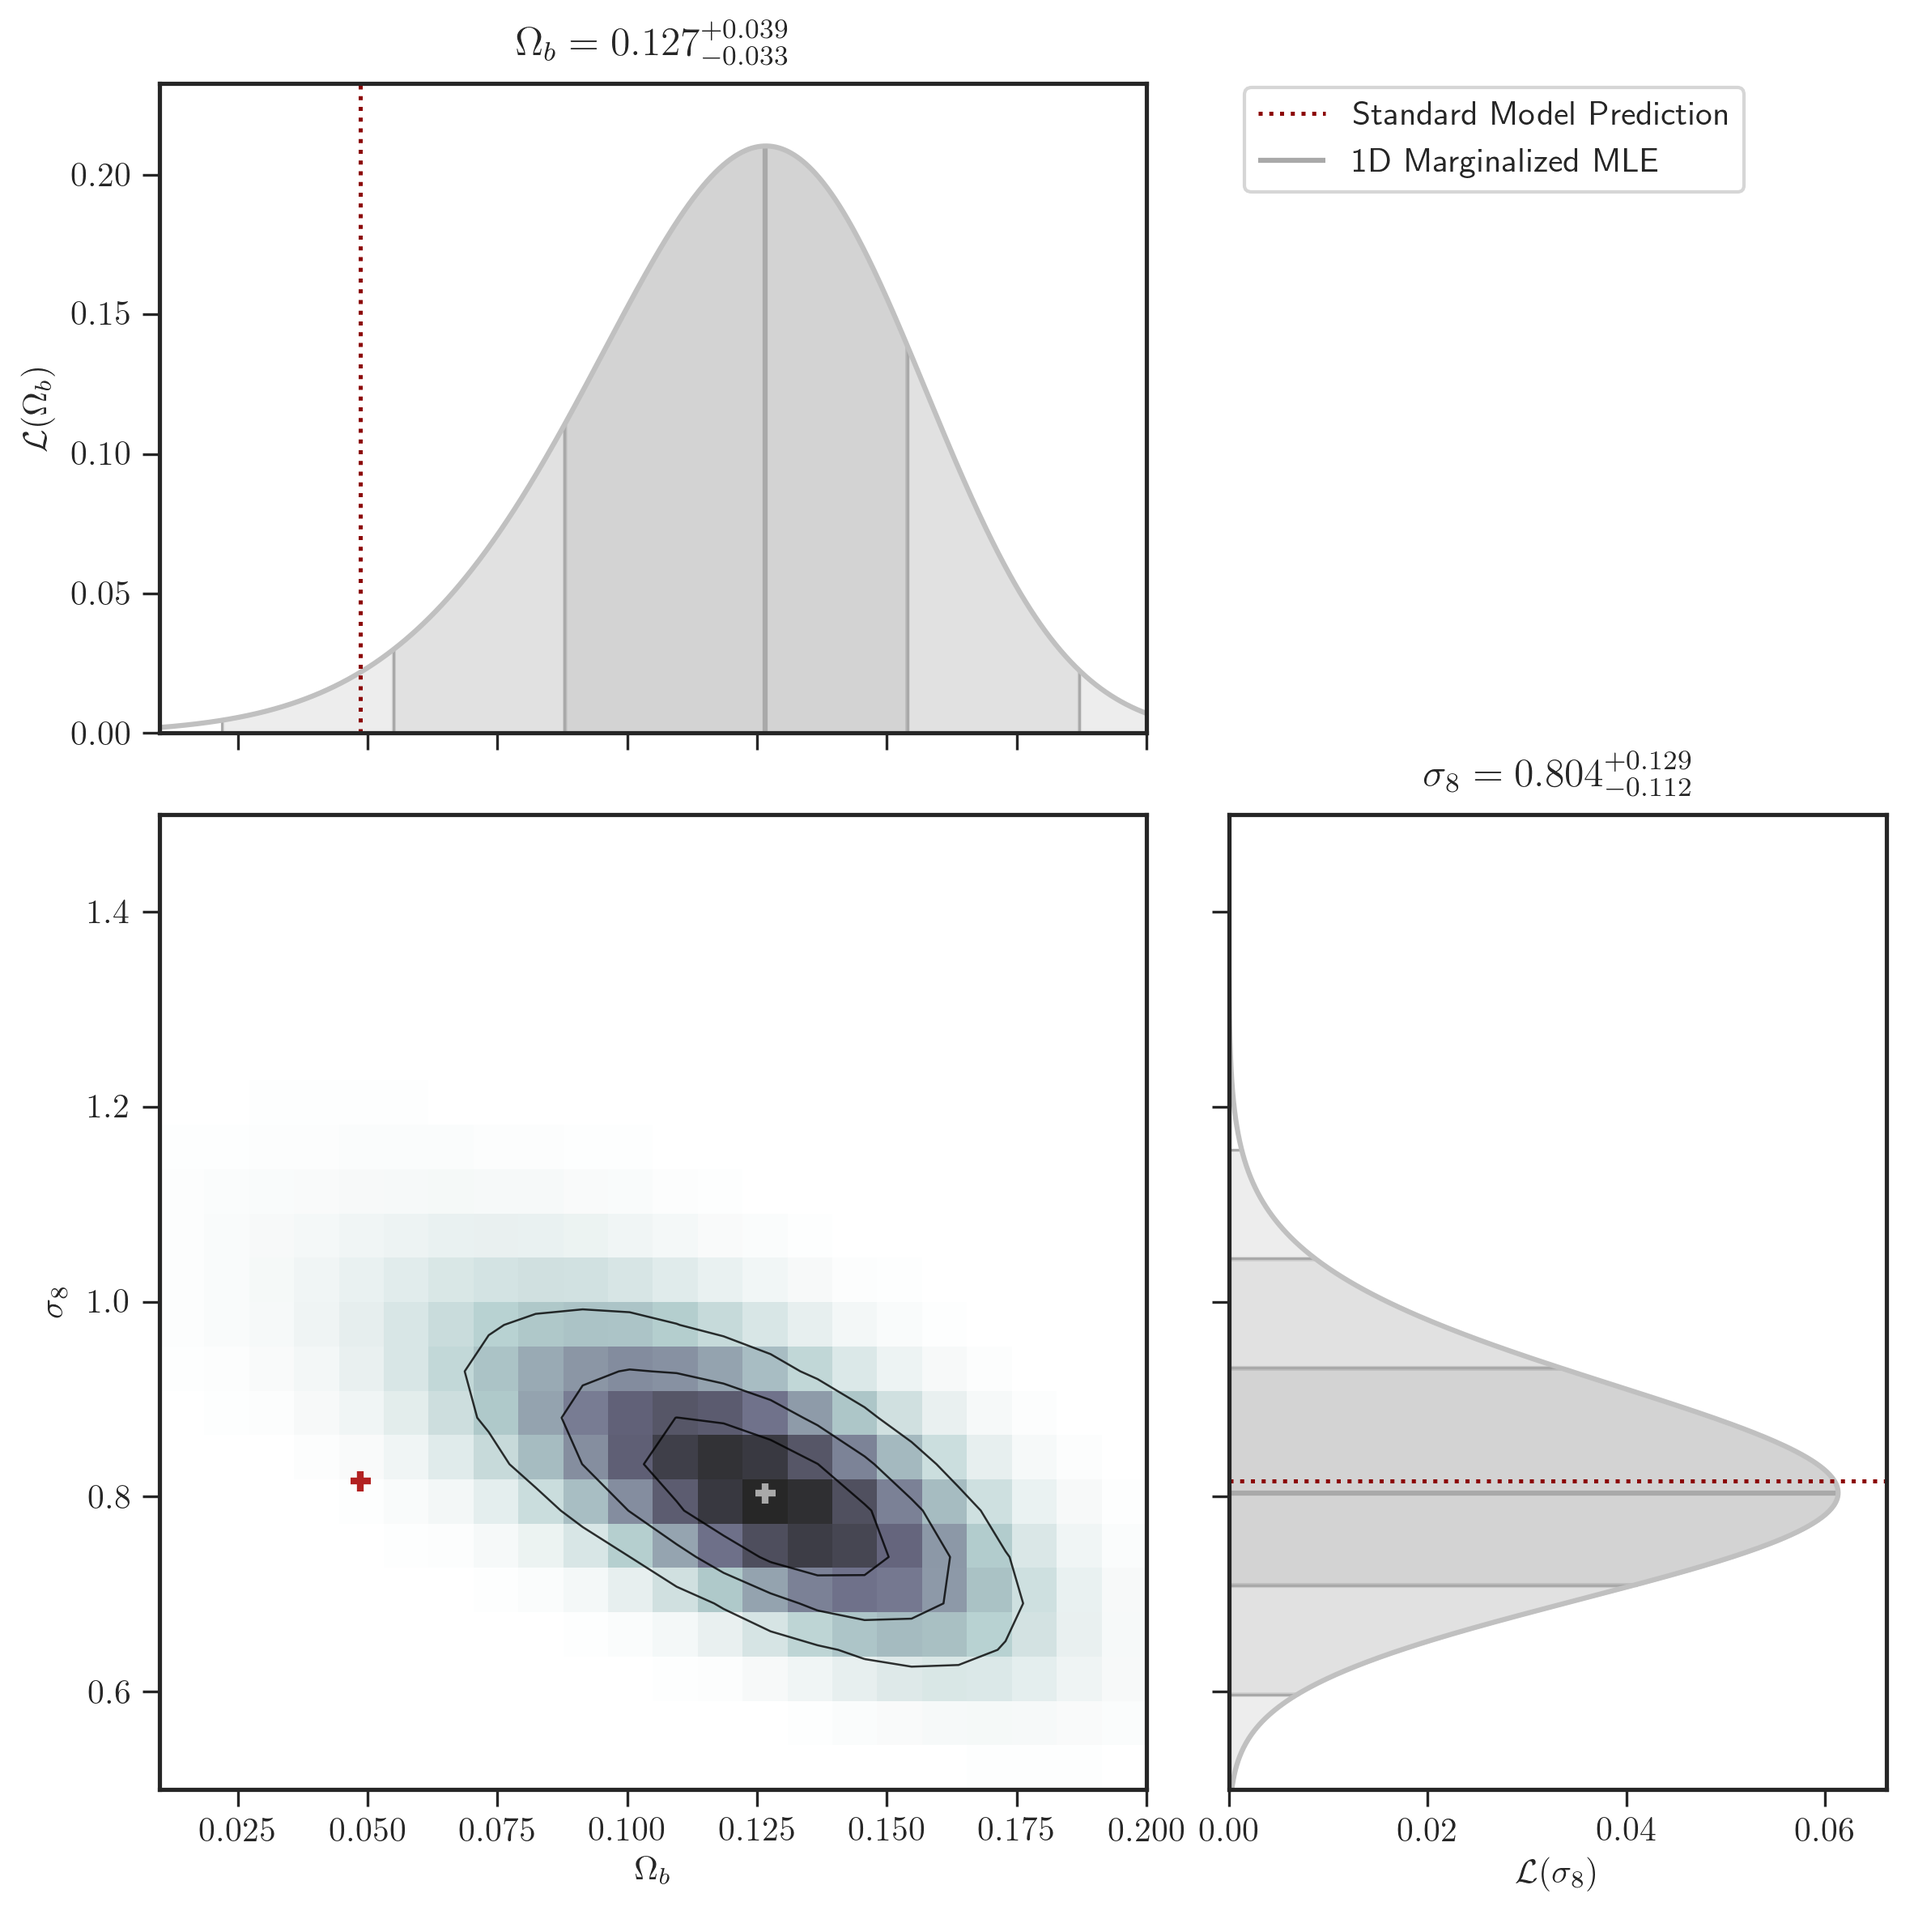
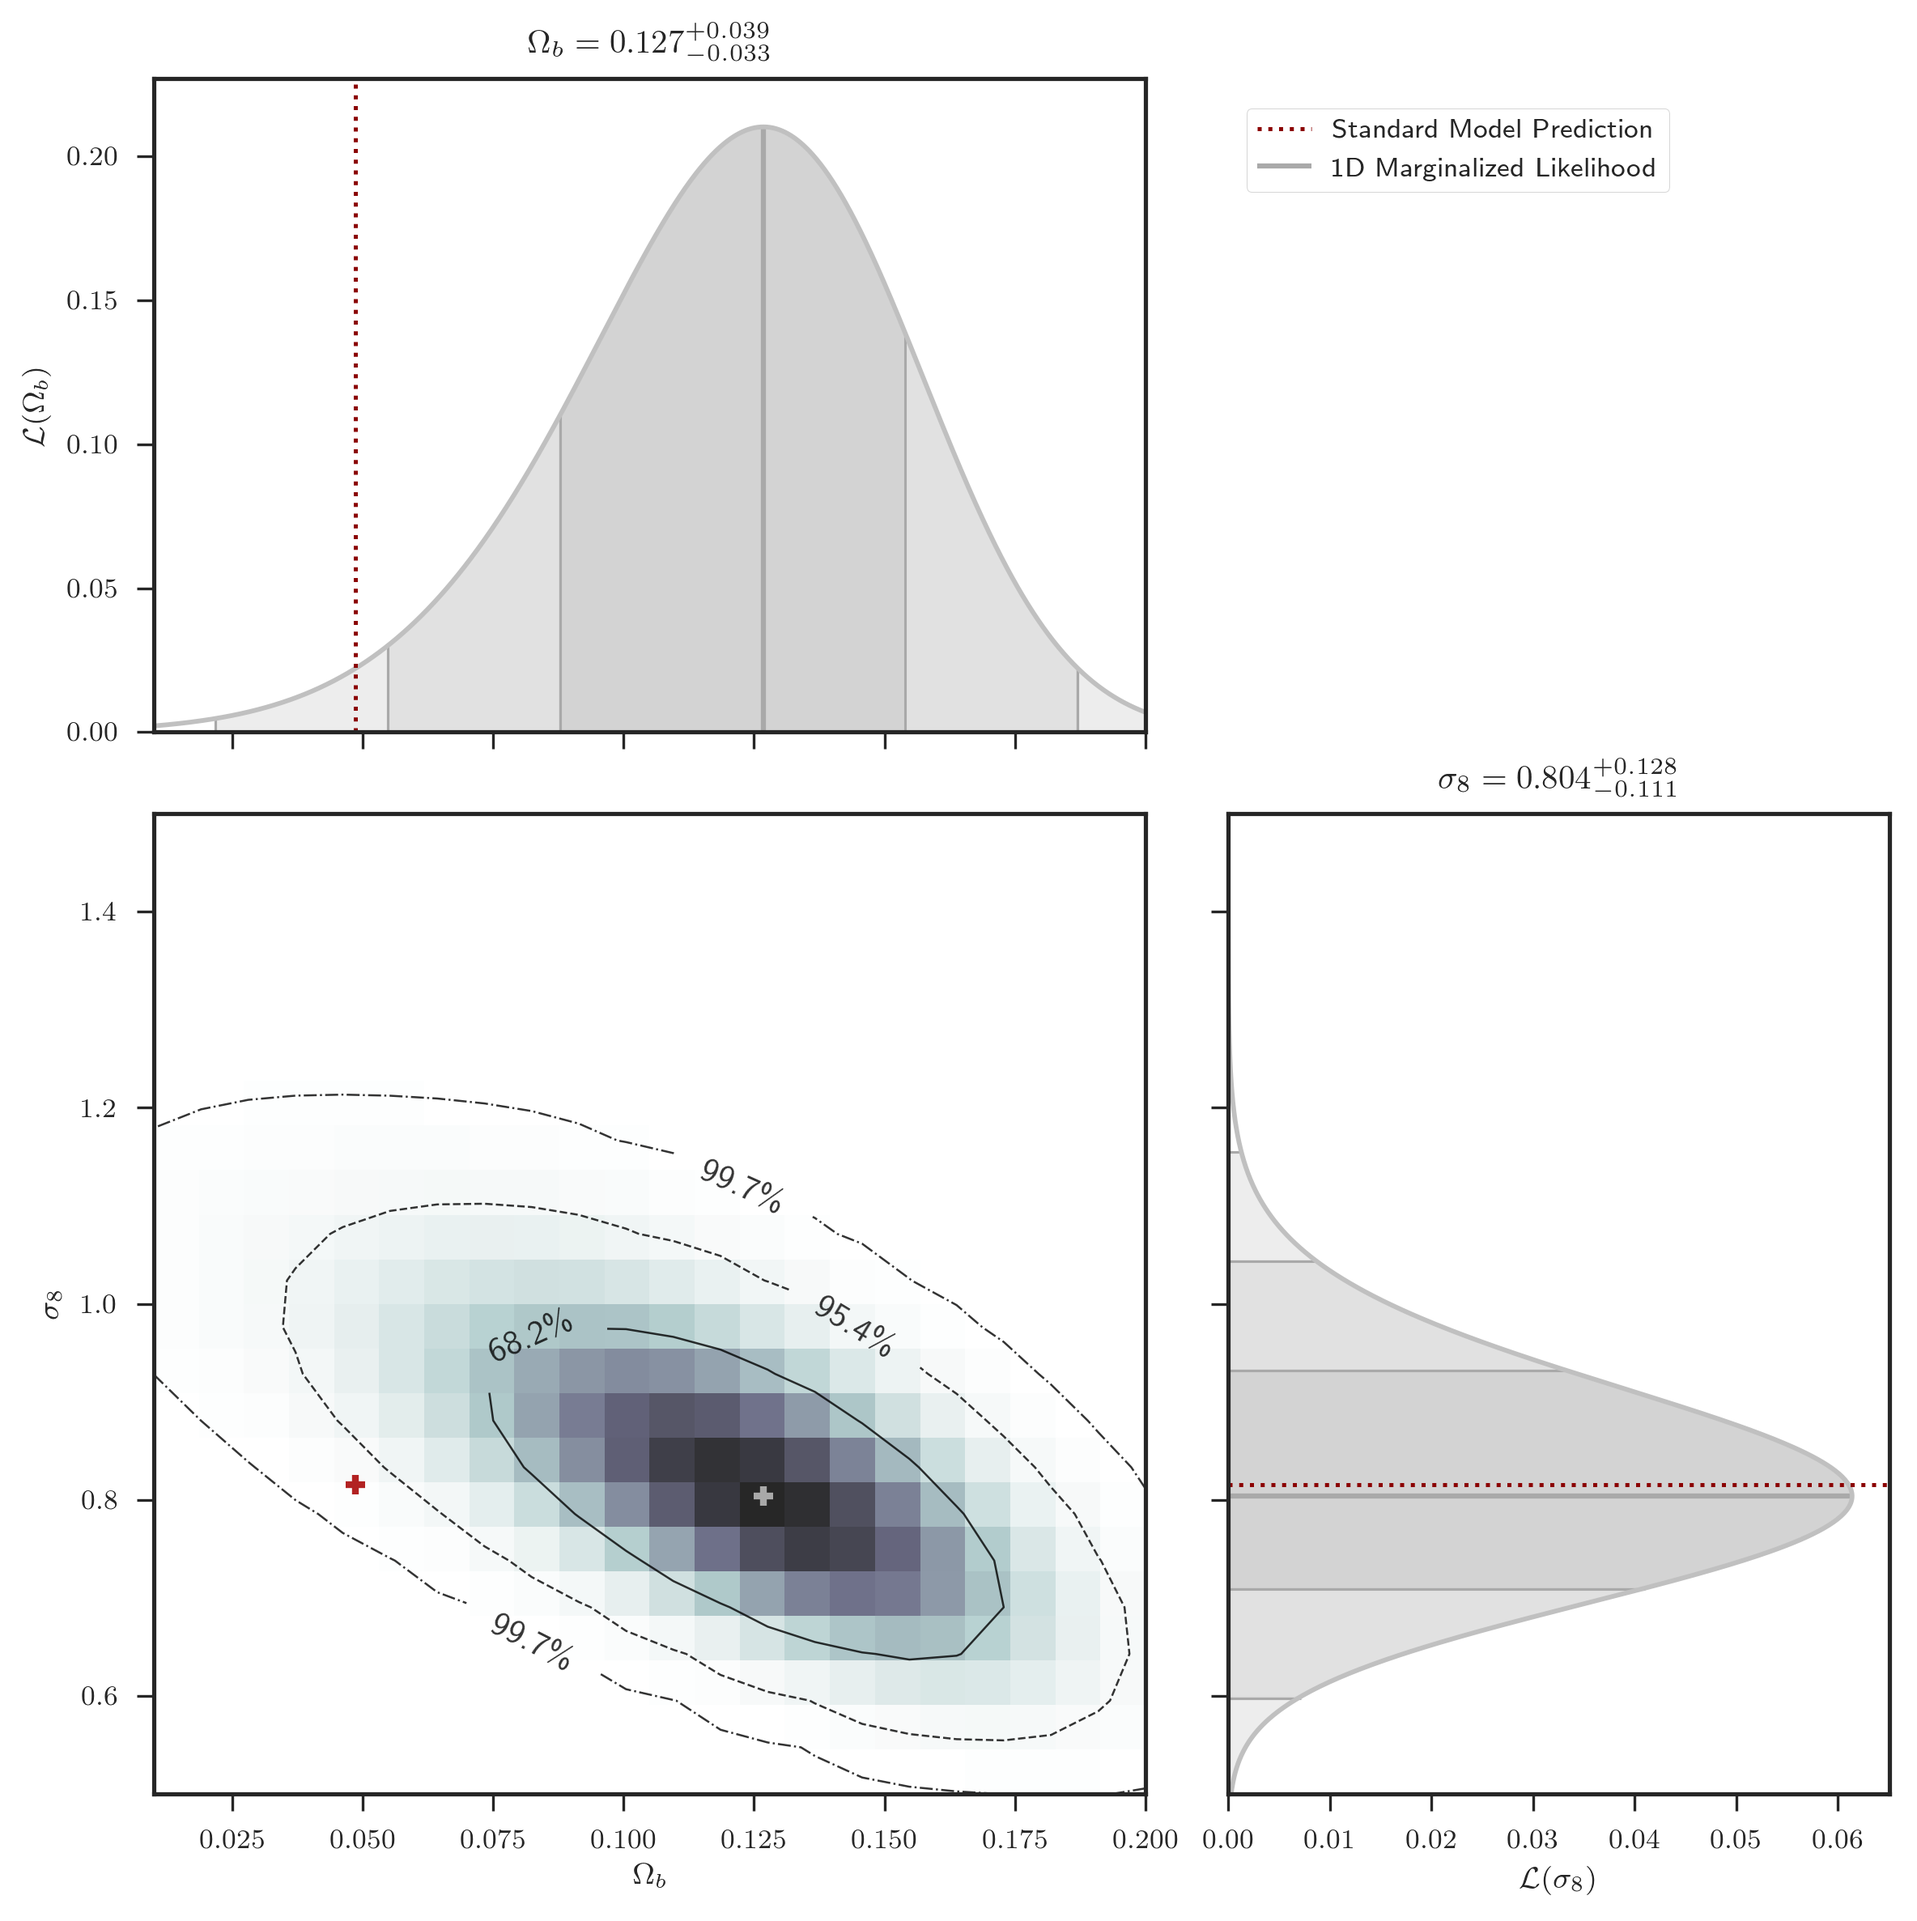
Results: added marginalization

diff --git a/markdowns/Results and Discussion.md b/markdowns/Results and Discussion.md
@@ -14,19 +14,19 @@ eqnos-plus-name: Eq.
 
   ## Marginalized Likelihood over $\sigma_*$
 
-  - As previously mentioned in Sec #, we include the Gaussian distributed variance term $\sigma_*^2$ within @eq:covariance to account for the 1D velocity dispersion due to small-scale, non-linear motion in our error measurements. The value of $\sigma_*$ varies between galaxy surveys and is dependent on the underlying sample and the method of measurement and is typically on the order of $\sim 250-350$\si{\km\per\s}. While values for $\sigma_*$ have been constrained for individual surveys, fixing $\sigma_*$ can bias results towards models that favor the value chosen. Therefore, we leave $\sigma_*$ as a free parameter due to it also acting as an additional noise term that includes unaccounted for systematic errors which is particularly useful given that the CF3 is a compilation of various surveys. In order to calculate a maximum likelihood estimate independent of $\sigma_*$ we marginalize over the nuisance parameter between $0 < \sigma_* \leq 1000$\si{\km\per\s} using the method described in @eq:marginalization. We quote our measurements from the 1D marginalized maximum likelihood estimate (MLE) of our parameters of interest with our uncertainties from the $1\sigma$ bounds on the likelihood. We fix secondary parameters within our likelihood estimates to the fiducial cosmology provided by the best-fitting values from _Planck_.
+  - As previously mentioned, we include the 1D non-linear velocity dispersion $\sigma_*$  within the covariance matrix $R_{ij}$ as a parameter to account for small-scale motion in our error measurements. The value of $\sigma_*$ varies between galaxy surveys and is dependent on the underlying sample and the method of measurement and is typically on the order of $\sim 250-350$\si{\km\per\s}. While values for $\sigma_*$ have been constrained for individual surveys, fixing $\sigma_*$ can bias likelihood results towards models that favor the value chosen. Therefore, we leave $\sigma_*$ as a free parameter due to it also acting as an additional noise term that includes unaccounted for systematic errors, which is particularly useful given that the CF3 is a compilation of various surveys. In order to calculate a maximum likelihood estimate independent of $\sigma_*$ we marginalize over the nuisance parameter between $0 < \sigma_* \leq 1000$\si{\km\per\s} using the methods described in Sec#. We quote our measurements from the 1D marginalized maximum likelihood estimate (MLE) of our parameters of interest with our uncertainties from the $1\sigma$ bounds on the likelihood. We fix secondary parameters within our likelihood estimates to the fiducial cosmology provided by the best-fitting values from _Planck_.
 
-  - We fit our likelihood method to the CF3 group data and vary the parameterization of the power spectrum and the covariance matrix $R_{ij}$. We find that the inclusion of baryons in the parameterization of the power spectrum in @eq:powerspectrum to strongly influence the amplitude of the power spectrum on both small and large scales. For our methodology we obtain a measurement of $\Omega_b =  0.124_{0.027}^{0.023}$ in $\sim 2.9\sigma$  tension with the expected fiducial _Planck_ value of $\Omega_b = 0.045$. We show the result of our constrain on $\Omega_b$ in Fig #a and we summarize all of our 1D maximum likelihood constraints while fixing the other parameters to the fiducial cosmology in Table #. The inconsistency of our results with _Planck_ cosmology can be best understood by comparing the parameterization of the power spectrum for our value with the _Planck_ value of $\Omega_b$ in Fig #b. The larger value of $\Omega_b$ results in a significant increase in the amplitude of the power spectrum for $k\leq 0.1$ (i.e. for scales greater than $\sim 60 h^{-1}$\si{\Mpc}) while also decreasing the the distribution of power on small scales.
-
-  - 
+  - We fit our likelihood method to the CF3 group data and vary the parameterization of the power spectrum and the covariance matrix $R_{ij}$to test the consistency of our data with the $\Lambda\text{CDM}$ model. We find that the inclusion of baryons in the parameterization of the power spectrum in @eq:powerspectrum to strongly influence the amplitude of the power spectrum on both small and large scales. For our methodology we obtain a measurement of $\Omega_b =  0.124_{0.027}^{0.023}$ in $\sim 2.9\sigma$  tension with the expected fiducial _Planck_ value of $\Omega_b = 0.045$. We show the result of our constrain on $\Omega_b$ in Fig #a and we summarize all of our individual 1D maximum likelihood constraints marginalized over $\sigma_*$ in Table #. The inconsistency of our results with _Planck_ cosmology can be best understood by comparing the parameterization of the power spectrum for our value with the _Planck_ value of $\Omega_b$ in Fig #b. The larger value of $\Omega_b$ results in a significant increase in the amplitude of the power spectrum for $k\leq 0.1$ (i.e. for scales greater than $\sim 60 h^{-1}$\si{\Mpc}) while also decreasing the the contribution of power to small scales.
 
     ![ml_Ob](/home/kdbarajas/GitHub/cosmology-thesis/images/ml_Ob.png)
 
     ![powerspectrum_Ob](/home/kdbarajas/GitHub/cosmology-thesis/images/powerspectrum_Ob.png)
 
-    
+  - Within our methodology, the only dependence on $\Omega_b$ is within the parameterization of the shape parameter $\Gamma_\text{eff}$ in the power spectrum. The other two parameters that most strongly influence the shape and amplitude of the power spectrum are $\Omega_m$ and $\sigma_8$, so we chose to compare the constraints on the combination of $\Omega_b$ with $\Omega_m$ and then separately with $\sigma_8$. In Figure #, we present our constraints on the combinations of these parameters where we vary $\Omega_b$ with one parameter while fixing the other. In both cases the 1D marginalized maximum likelihood estimate of $\Omega_b$ marginalized over the second parameter measures a value inconsistent with $\Lambda\text{CDM}$. However, the secondary parameters of $\Omega_m$ and $\sigma_8$ when marginalized over $\Omega_b$ where strongly constrained to within $1\sigma$ of the expected values. This suggests that the individual MLE values where we independently varied a single parameter (as listed in Table #) were strongly influenced by the _Planck_ value of $\Omega_b$ that is much smaller than the values we have constrained. Given that MLE of $\Omega_m$ and $\sigma_8$ marginalized over $\Omega_b$ were consistent with the $\Lambda\text{CDM}$ we find it interesting to that the CF3 group data favors more power on large scale through a larger value of $\Omega_b$ and so we found it worth exploring further.
 
     ![ml_OmOb_standard](../images/ml_OmOb_standard.png)
+
+    ![ml_Obsig8_standard](../images/ml_Obsig8_standard.png)
 
 
   ## Adding power on large-scales
